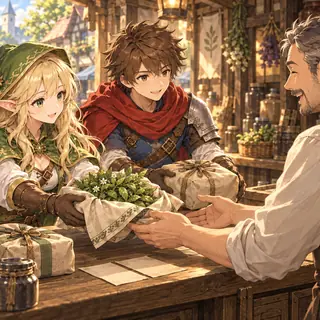
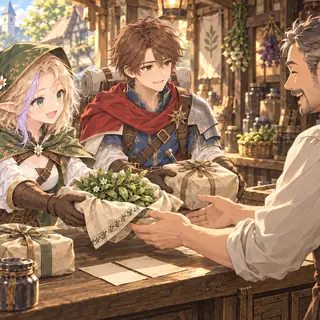
Refresh trade handover still and order gallery by stage

diff --git a/docs/art/story-art-gallery.md b/docs/art/story-art-gallery.md
@@ -2,68 +2,61 @@
 
 案内：[アート・音](README.md)
 
-## 第四章の一枚絵
+章・ステージ順に掲載する。同じステージでは出発会話、達成会話の順。表示条件の正本は `lib/story-art.ts` と各章の実装仕様、制作履歴は [スチル制作記録](story-art.md) を参照。
 
-4場面の採用素材。第四章の会話とアルバムへ接続済み。[制作条件](chapter-four-stills.md)と[生成記録](../art-generation/chapter-four-stills.json)を参照。
+## 第一章
 
-### 4-8：苗を守るリコ
+### 1-1：荷物を渡したら
 
-![赤と黒の衣装のリコが苗の籠を抱えて道をふさぎ、食料を背負ったメリルが手を伸ばす。](../../public/stories/lico-protects-seedlings.webp)
+リンデの店先でアリアが薬草を渡し、レオンが村から預かった交易品を台に置く。`village-trade-return` の最初の行から表示。2026-10-05に最新のアリア・レオン設定画へ更新。[更新記録](../art-generation/trade-handover-refresh-20261005.json)を参照。
 
-第四章4-8の出発会話で表示。人物紹介を兼ねた全身構図で、右のリコが苗を守り、左のメリルが狙う。[制作条件](chapter-four-stills.md#4-8の採用画像)と[生成記録](../art-generation/chapter-four-stills.json)を参照する。
+![アリアとレオンが店主へ薬草と交易品を渡す。](../../public/stories/village-trade-handover.webp)
 
-### 4-4：徹夜明けのミラ
-
-![宿の玄関広間で、髪と服が乱れた徹夜明けのミラをフィンとアリアが心配する。](../../public/stories/mira-after-all-nighter.webp)
-
-### 4-4：青い布の陰
-
-![アリアが右手で布を広げ、左腕をレオンの右腕へ回して身を寄せ、二人で隙間をのぞく。](../../public/stories/blue-cloth-alley.webp)
-
-### 4-10：旅団結成
-
-![アリアが旅団の登録書へ署名し、レオン、ミラ、フィン、リコが机を囲んで見守る。](../../public/stories/guild-formation.webp)
-
-## 薬を待つ家々
-
-![薬と蜜の配達](../../public/stories/medicine-delivered.webp)
-
-第二章2-8。ミラが子どもの口元へ薬の匙を運ぶ行から表示。
-
-## 三人分のお茶
-
-![三人のお茶](../../public/stories/three-cups-of-tea.webp)
-
-第二章2-9。ミラがカップを受け取り一口飲む行から表示。
-
-## 灯りの戻る丘
-
-![塔の再点灯](../../public/stories/tower-light-restored.webp)
-
-第一章1-9。塔に淡い紫の光が戻る行で表示。アリアはフードを下ろし、長い金髪と花飾りを見せてレオンと寄り添って座る。二人は正面の塔を見上げ、窓には弱い紫の灯りがともる。[採用画像と初版の制作記録](../art-generation/stage-1-9-art.json)。
-
-スチルの制作確認用一覧。ゲームへの接続状況は各章の実装仕様を参照してください。
-場面と表示条件は [制作記録](story-art.md) に保存しています。
-
-## 同じかもしれない
-
-第一章1-6。2026-10-05に最新設定画のアリアへ更新。木漏れ日と苔むした石壁を背景に、フードをかぶったアリアが両手の器を顔の近くまで持ち上げて二つの苔を見比べる。短い金髪と画面左側の紫の一房を反映し、構図を保って元気な笑顔へ修正した。持ち上げる行から表示し、まだ同種とも塔の不調の原因とも断定しない。[背景の制作記録](../art-generation/stage-1-6-art.json) と [更新記録](../art-generation/forest-moss-refresh-20261005.json) を参照。
-
-![木漏れ日が差す苔むした石壁の前で、二つの苔を顔の近くへ持ち上げて見比べるアリア。](../../public/stories/forest-moss-aria.webp)
-
-## 石陰の拾いもの
+### 1-4：石陰の拾いもの
 
 第一章1-4。管理人の許可を得て分けた光る苔が、小さな木の入れ物で手元を照らす。二人の顔と苔灯に寄った構図で、2026-10-05に最新設定画へ合わせて描き直した。アリアの肩〜鎖骨丈の金髪と花飾りの反対側の紫の一房、レオンの短い片肩マント・背嚢と巻き毛布を反映した。この絵の生成プロンプトと背景・苔灯の記録は [制作記録](story-art.md#第一章1-41-5) を参照。
 
 ![塔の足元で、アリアとレオンが木の入れ物の中の光る苔を覗く。](../../public/stories/tower-moss-discovery.webp)
 
-## 第二章2-2：あと一人分の包み
+### 1-6：同じかもしれない
+
+第一章1-6。2026-10-05に最新設定画のアリアへ更新。木漏れ日と苔むした石壁を背景に、フードをかぶったアリアが両手の器を顔の近くまで持ち上げて二つの苔を見比べる。短い金髪と画面左側の紫の一房を反映し、構図を保って元気な笑顔へ修正した。持ち上げる行から表示し、まだ同種とも塔の不調の原因とも断定しない。[背景の制作記録](../art-generation/stage-1-6-art.json) と [更新記録](../art-generation/forest-moss-refresh-20261005.json) を参照。
+
+![木漏れ日が差す苔むした石壁の前で、二つの苔を顔の近くへ持ち上げて見比べるアリア。](../../public/stories/forest-moss-aria.webp)
+
+### 1-9：灯りの戻る丘
+
+![塔の再点灯](../../public/stories/tower-light-restored.webp)
+
+第一章1-9。塔に淡い紫の光が戻る行で表示。アリアはフードを下ろし、長い金髪と花飾りを見せてレオンと寄り添って座る。二人は正面の塔を見上げ、窓には弱い紫の灯りがともる。[採用画像と初版の制作記録](../art-generation/stage-1-9-art.json)。
+
+## 第二章
+
+### 2-2：あと一人分の包み
 
 ![倒れたミラをレオンが支え、アリアが駆け寄る](../../public/stories/mira-collapse.webp)
 
 `moonlit-herbs-return` の倒れる行から表示。制作条件は [スチル制作記録](story-art.md#第二章2-2ミラが倒れる) を参照。
 
-## 第三章の一枚絵
+### 2-6：もう一人の山賊
+
+ハロウィン風に飾った人形がお辞儀し、パンプキンヘッド姿のプティが後ろから操る。`begging-golem-departure` の0起点3行目から表示。[制作記録](story-art.md#第二章2-6大小の人形)を参照。
+
+![両手を差し出す人形と、その後ろで操るパンプキンヘッド姿のプティ。](../../public/stories/begging-dolls.webp)
+
+### 2-8：薬を待つ家々
+
+![薬と蜜の配達](../../public/stories/medicine-delivered.webp)
+
+第二章2-8。ミラが子どもの口元へ薬の匙を運ぶ行から表示。
+
+### 2-9：三人分のお茶
+
+![三人のお茶](../../public/stories/three-cups-of-tea.webp)
+
+第二章2-9。ミラがカップを受け取り一口飲む行から表示。
+
+## 第三章
 
 対応する先行会話は[スチル制作記録](story-art.md#第三章食堂手当て四人のお茶)、ゲームへの接続状況は[第三章の実装仕様](../gameplay/chapter-three-gameplay.md#実装状況)を参照。
 
@@ -78,3 +71,25 @@
 ### 3-9：四人のお茶
 
 ![塔に灯りが戻った夕方、アリアとレオンが話し、フィンが目を閉じて笑う。傍らでは青白い顔のミラがお茶を注いでいる。](../../public/stories/four-cups-of-tea.webp)
+
+## 第四章
+
+[制作条件](chapter-four-stills.md)と[生成記録](../art-generation/chapter-four-stills.json)を参照。
+
+### 4-4：徹夜明けのミラ
+
+![宿の玄関広間で、髪と服が乱れた徹夜明けのミラをフィンとアリアが心配する。](../../public/stories/mira-after-all-nighter.webp)
+
+### 4-4：青い布の陰
+
+![アリアが右手で布を広げ、左腕をレオンの右腕へ回して身を寄せ、二人で隙間をのぞく。](../../public/stories/blue-cloth-alley.webp)
+
+### 4-8：苗を守るリコ
+
+![赤と黒の衣装のリコが苗の籠を抱えて道をふさぎ、食料を背負ったメリルが手を伸ばす。](../../public/stories/lico-protects-seedlings.webp)
+
+第四章4-8の出発会話で表示。人物紹介を兼ねた全身構図で、右のリコが苗を守り、左のメリルが狙う。[制作条件](chapter-four-stills.md#4-8の採用画像)と[生成記録](../art-generation/chapter-four-stills.json)を参照する。
+
+### 4-10：旅団結成
+
+![アリアが旅団の登録書へ署名し、レオン、ミラ、フィン、リコが机を囲んで見守る。](../../public/stories/guild-formation.webp)

diff --git a/docs/art/story-art.md b/docs/art/story-art.md
@@ -71,6 +71,10 @@
 - 1-8終幕には一枚絵を置かず、水路が戻った状態を背景と会話で見せる。
 - 採用背景は1536×1024。組み込みimage_genを使用し、既存の塔の風景を参照した。プロンプト原文と目視確認は [制作記録](stage-1-7-1-8-art.md) を参照。
 
+## 第一章1-1：交易品の受け渡し
+
+2026-10-05に `village-trade-handover.png` を最新のアリア・レオン設定画に合わせて描き直した。アリアの短い金髪と画面左側の紫の一房、明るく元気な笑顔、レオンの長めの顔立ち・短い片肩マント・背嚢と巻き毛布を反映する。店主・交易品・薬草を渡す動作・店先の構図は維持。`village-trade-return` の最初の行から表示し、読了後はアルバムで鑑賞できる。台詞と表示条件は変更しない。[更新記録](../art-generation/trade-handover-refresh-20261005.json)を参照。
+
 ## 第一章1-6
 
 森の湿地背景は組み込み `image_gen` で制作。苔を比較するスチルは2026-09-15のユーザー提供画像をもとに、2026-10-05に最新のアリア設定画へ合わせて描き直した。肩〜鎖骨丈の毛量を抑えた金髪と、ユーザー修正に従った画面左側の淡い紫の一房を反映し、フードをかぶって二つの器を顔へ近づける動作、木漏れ日と石壁、苔を見比べる場面を維持し、目を明るく開いた元気な笑顔へ修正する。苔の同一性を断定する発光演出は追加しない。背景は [1-6の制作記録](../art-generation/stage-1-6-art.json)、以前の採用画像は [制作履歴](../art-generation/stage-1-6-closeup-art.json)、今回の更新は [更新記録](../art-generation/forest-moss-refresh-20261005.json) を参照。
